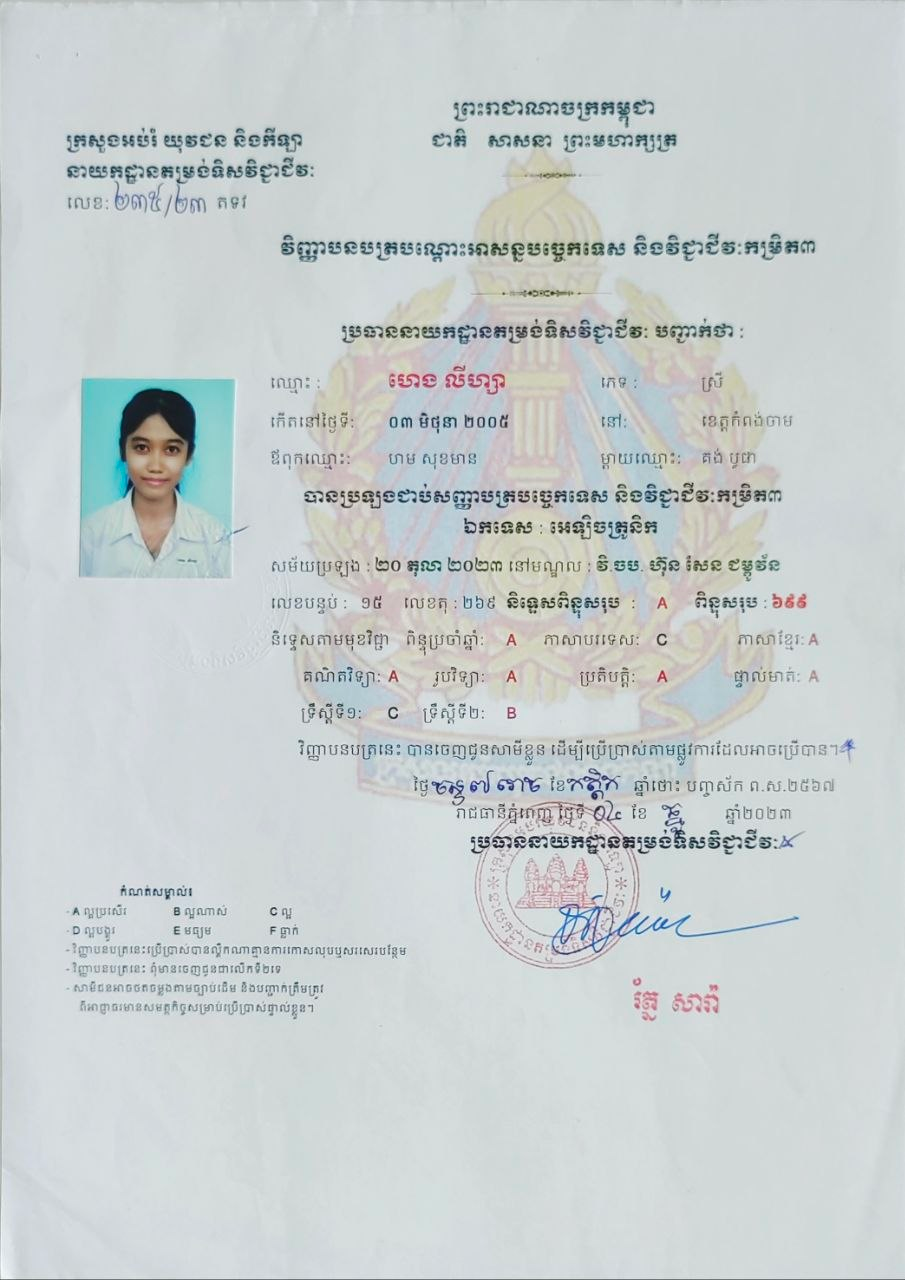
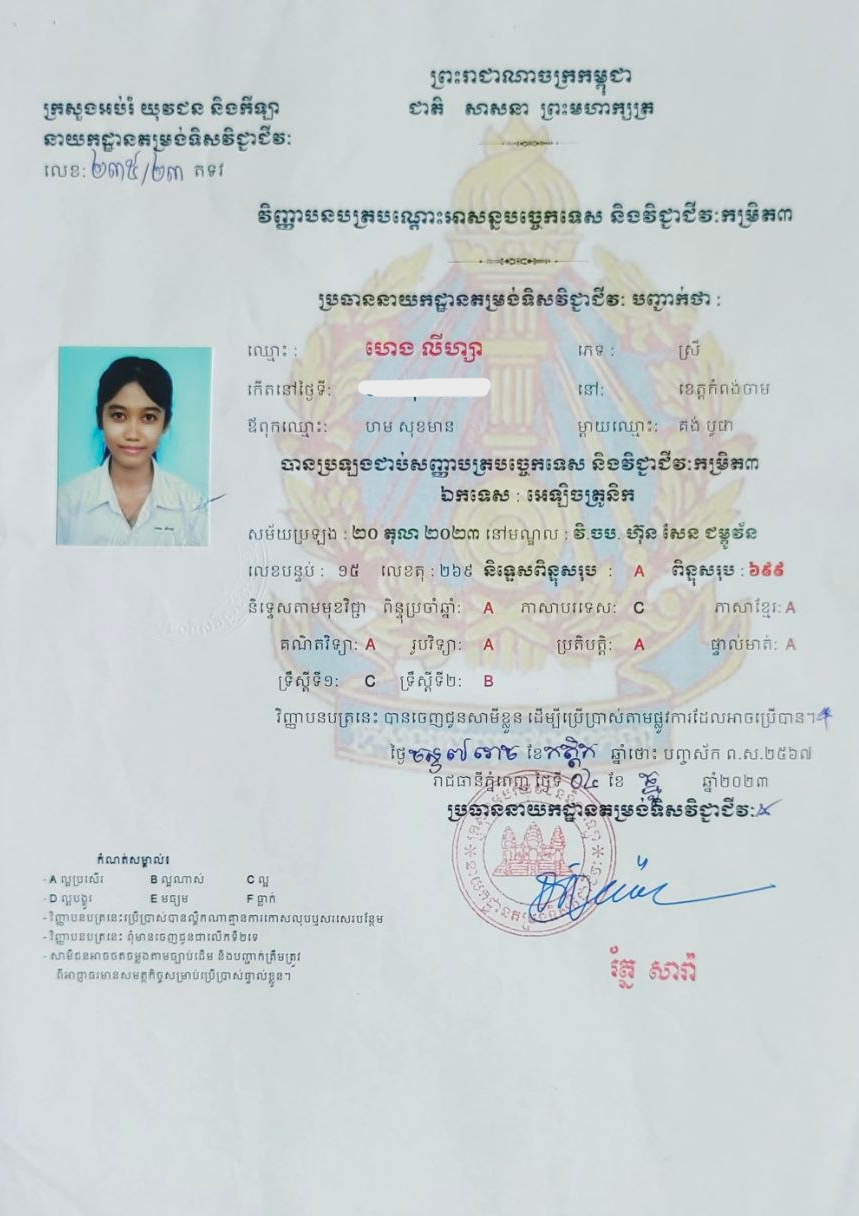
modified data

Changed region(s): [[0.0303, 0.0312, 0.9686, 0.8125], [0.0605, 0.6875, 0.454, 0.8125], [0.0, 0.9688, 0.0303, 1.0]]

diff --git a/data/site.ts b/data/site.ts
@@ -1,3 +1,3 @@
 export const iconProps = { size: 16, strokeWidth: 1.5 };
 
-export const pageCopy = { email: "hengliza81@gmail.com", year: "2026" };
+export const pageCopy = { email: "hengliza81@gmail.com", telegram: "@Icesuza", year: "2026" };
